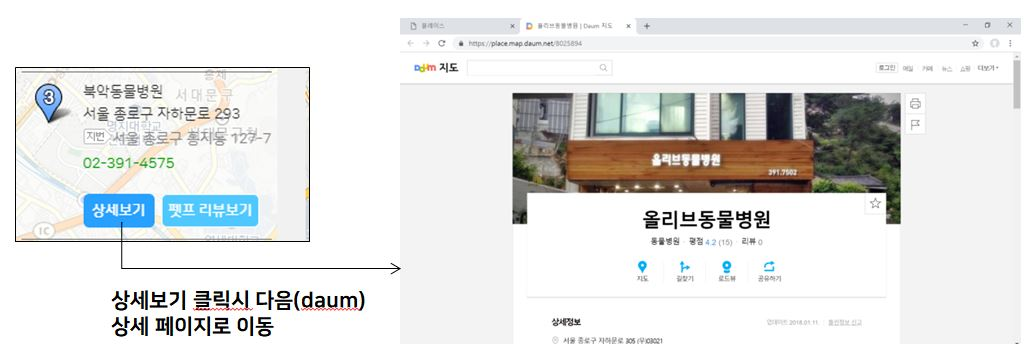
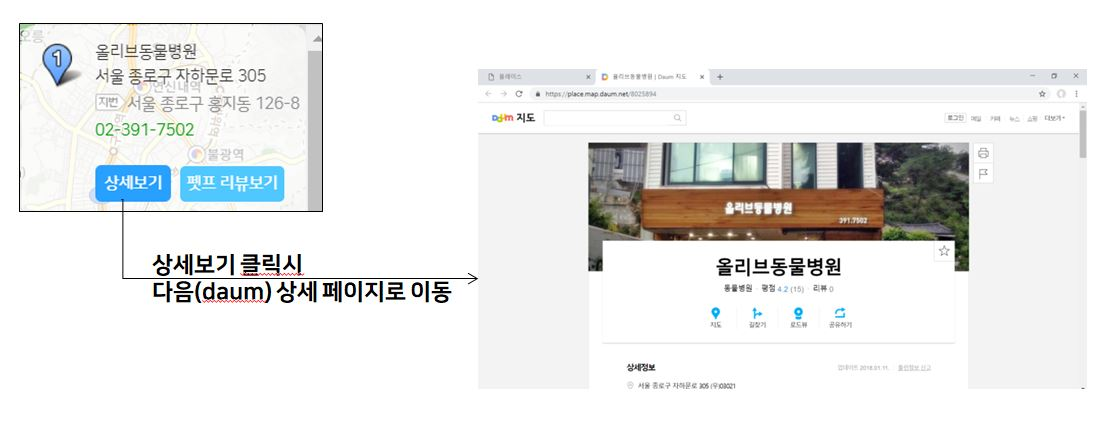
place1

diff --git a/_posts/post_portfolio/2019-02-07-port4_place.md b/_posts/post_portfolio/2019-02-07-port4_place.md
@@ -67,3 +67,43 @@ function searchPlaces() {
 }
 </script>
 ```
+
+>반려동물 동반 가능 장소 : 리스트 수정
+
+기존의 검색 결과 목록은 주소, 전화번호만 알려줍니다. 변경 후 해당 장소의 사이트에 접속 할 수 있습니다.<br>
+기존의 코드는 다음과 같습니다.
+```javascript
+// 검색결과 항목을 Element로 반환하는 함수입니다
+function getListItem(index, places) {
+
+    var el = document.createElement('li'),
+    itemStr = '<span class="markerbg marker_' + (index+1) + '"></span>' +
+                '<div class="info">' +
+                '   <h5>' + places.place_name + '</h5>';
+
+    if (places.road_address_name) {
+        itemStr += '    <span>' + places.road_address_name + '</span>' +
+                    '   <span class="jibun gray">' +  places.address_name  + '</span>';
+    } else {
+        itemStr += '    <span>' +  places.address_name  + '</span>';
+    }
+
+      itemStr += '  <span class="tel">' + places.phone  + '</span>' +
+                '</div>';           
+
+    el.innerHTML = itemStr;
+    el.className = 'item';
+
+    return el;
+}
+
+```
+
+이 때 places에는 x,y(위치좌표), place_url(상세페이지) 등이 있기 때문에 상세페이지로 연결시키기 위해 다음과 같이 덧붙여줍니다.
+```javascript
+itemStr += '<br><a href=' + places.place_url;
+itemStr += ' target="_blank">상세보기</a>';
+```
+<br>
+다음과 같이 상세보기 클릭 시 다음 상세페이지로 넘어갑니다.
+<br><img src="/images/petst/place/placedaum.jpg" width="600" height="300"><br>

diff --git a/_posts/post_portfolio/2019-02-07-port4_place2.md b/_posts/post_portfolio/2019-02-07-port4_place2.md
@@ -11,7 +11,9 @@ img{
 }
 </style>
 
-포트폴리오- 4. 반려동물 동반 가능 장소1
+포트폴리오- 4. 반려동물 동반 가능 장소2
 <br>
 
 >반려동물 동반 가능 장소 : 후기 작성 및 후기 보기
+
+<img src="/images/petst/place/sample.jpg" width="600" height="450"><br>
